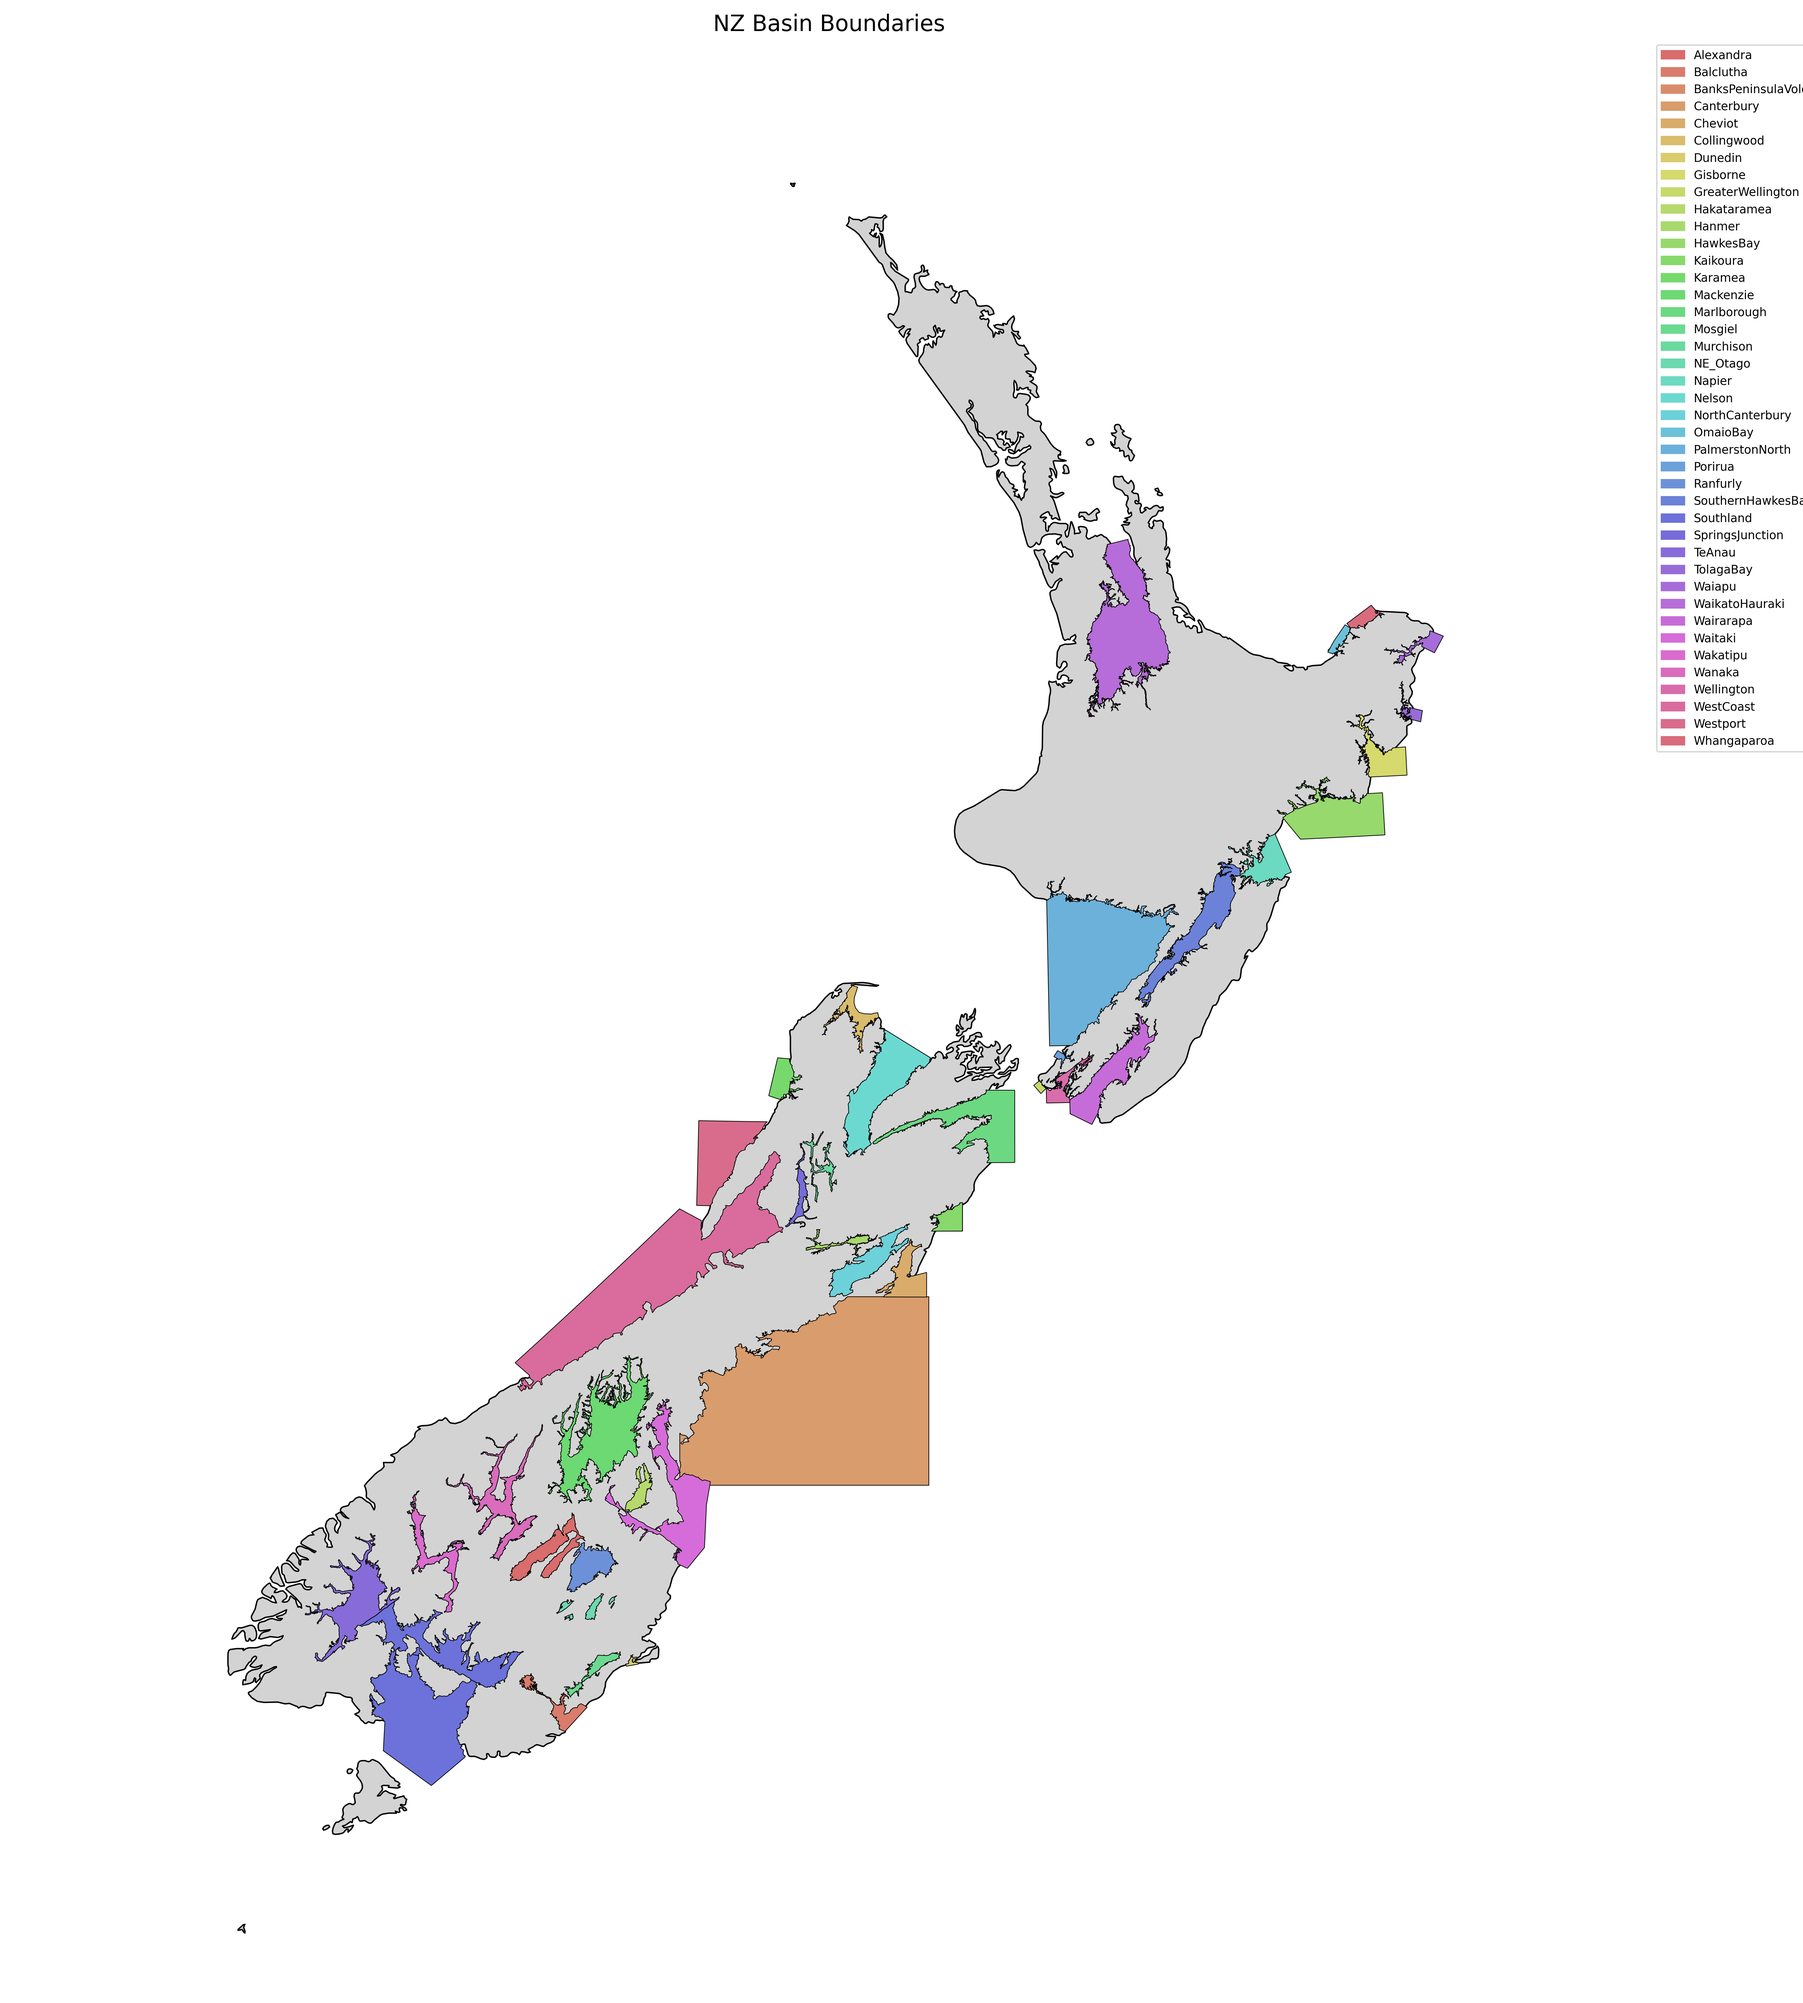
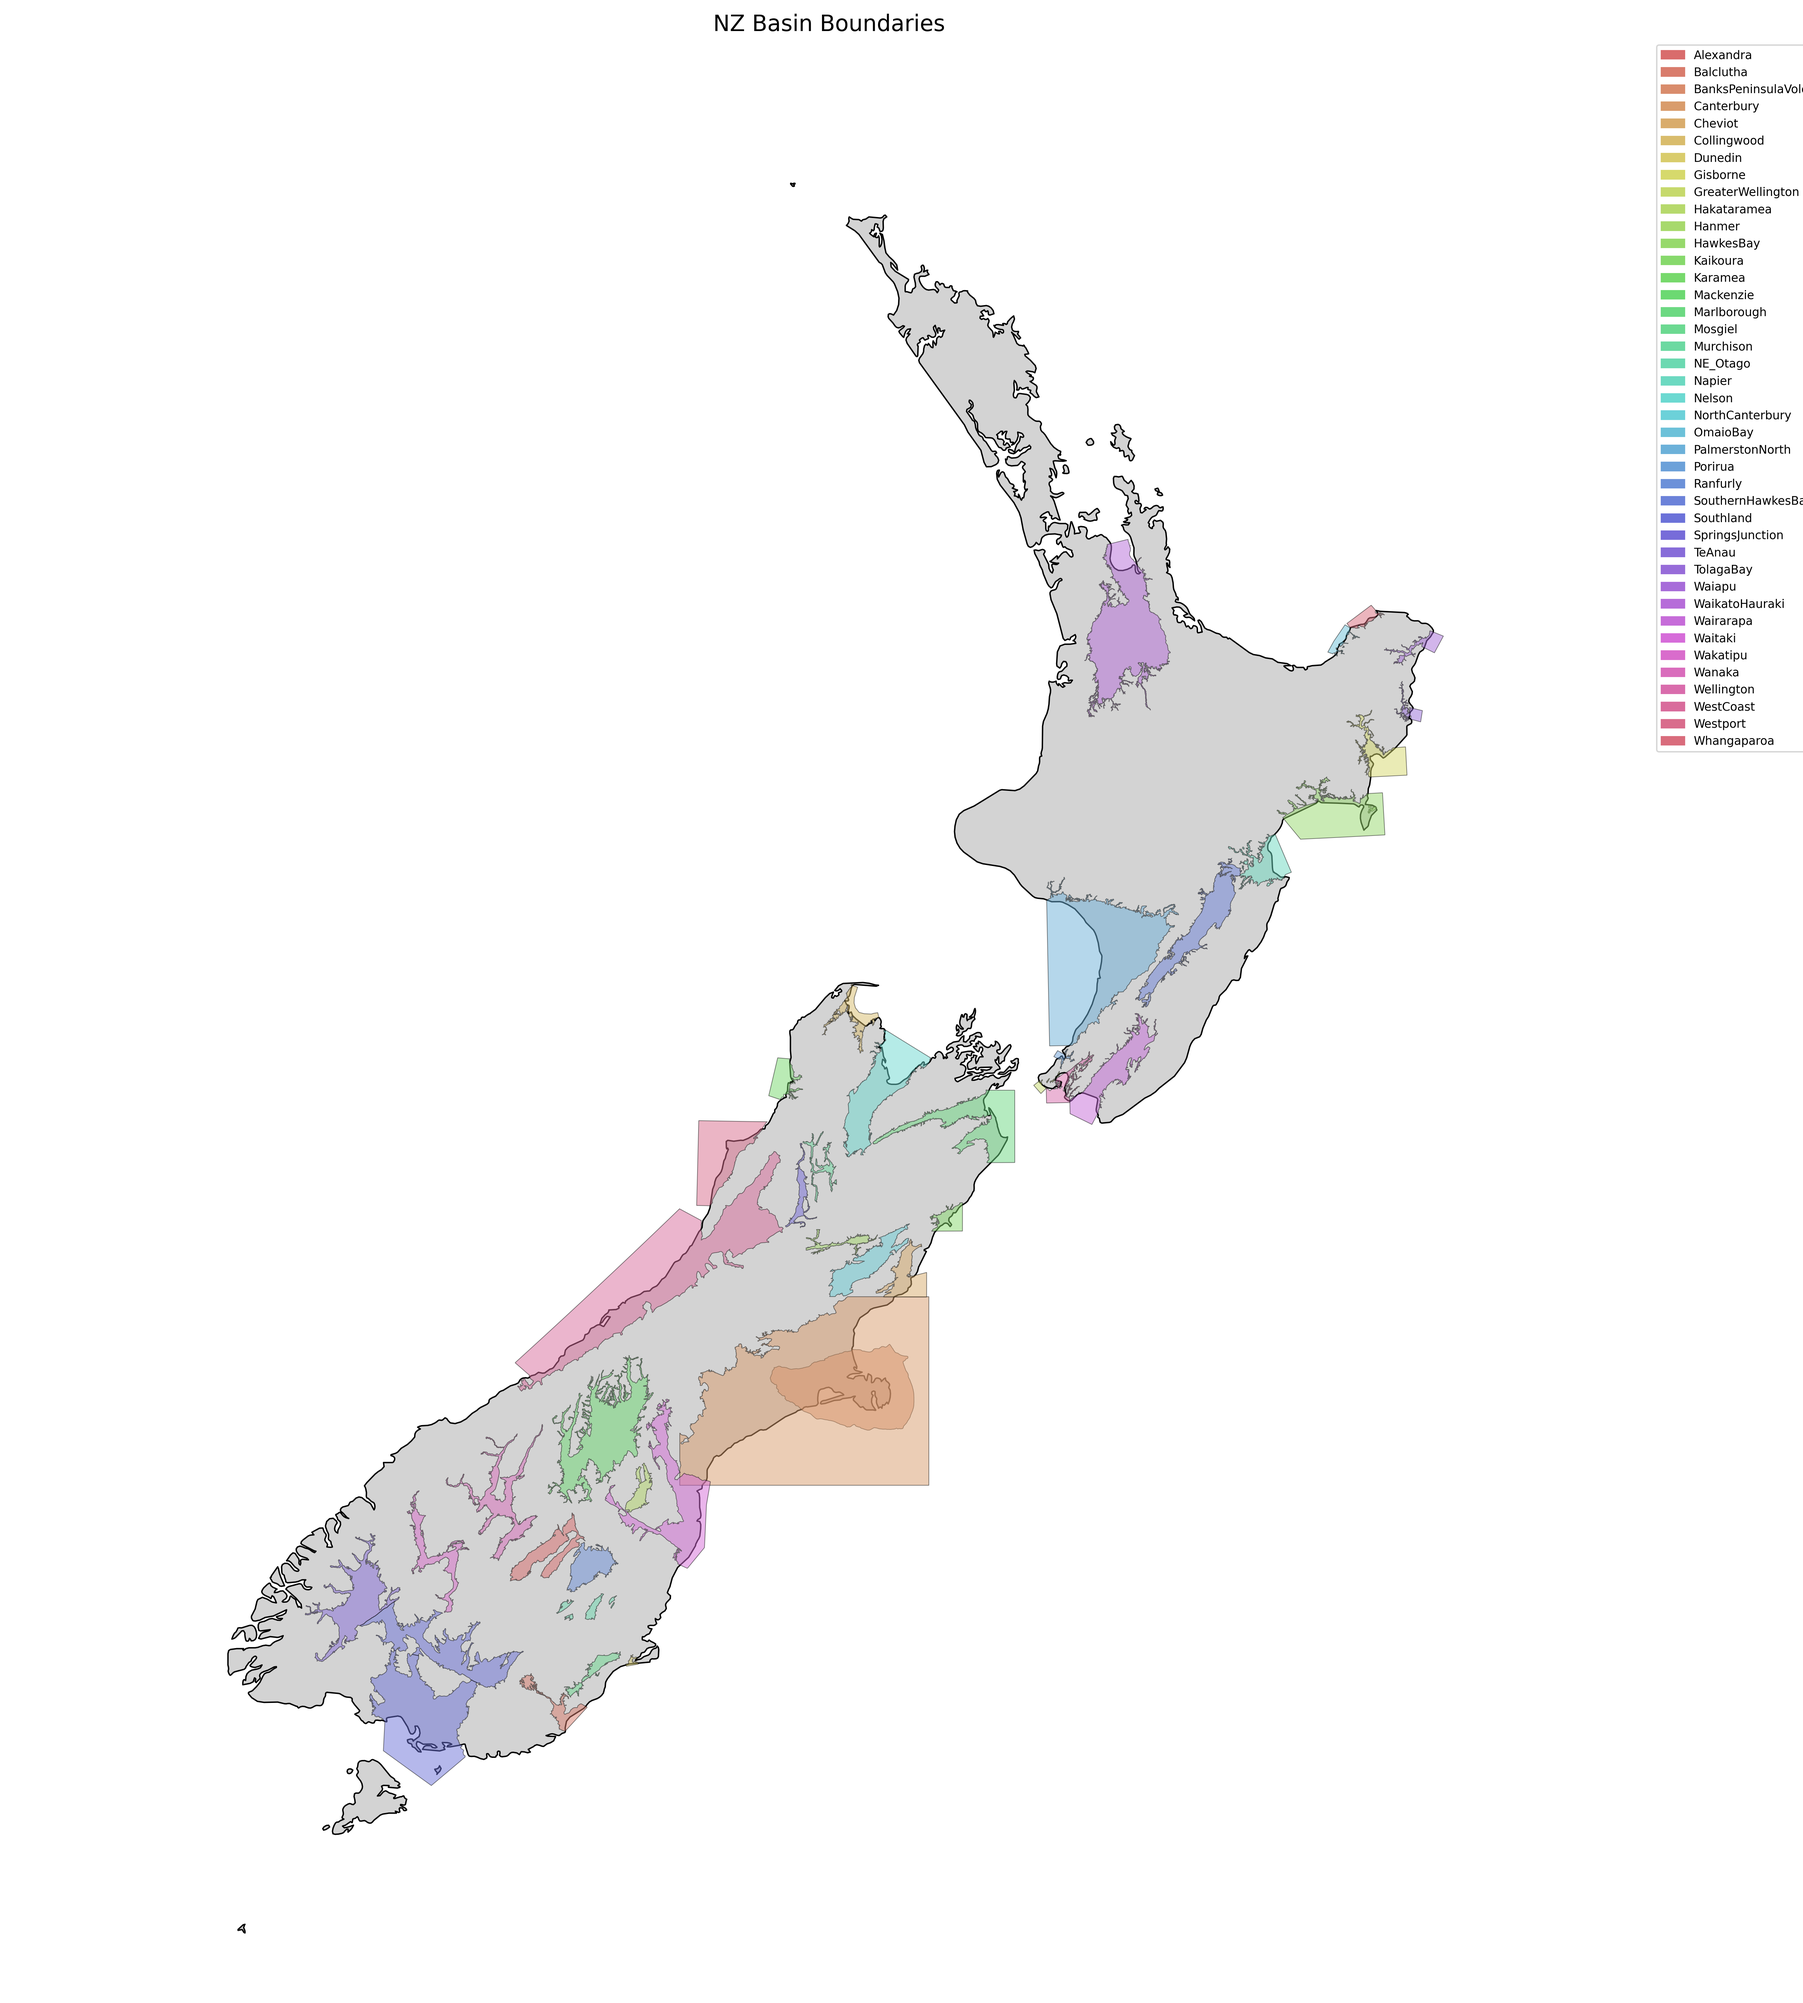
Added opacity to the map

Changed region(s): [[0.1867, 0.3428, 0.7778, 0.9038], [0.5911, 0.2805, 0.6533, 0.374], [0.7778, 0.3117, 0.8089, 0.3428]]

diff --git a/velocity_modelling/tools/map_all_basins.py b/velocity_modelling/tools/map_all_basins.py
@@ -207,7 +207,7 @@ def generate_basin_map(
                 if gdf.empty:
                     continue
                 gdf = gdf.to_crs("EPSG:4326")
-                gdf.plot(ax=ax, color=color, edgecolor="black", linewidth=0.5)
+                gdf.plot(ax=ax, color=color, edgecolor="black", linewidth=0.5,alpha=0.5)
                 any_valid = True
             except (fiona.errors.FionaError, ValueError) as e:
                 typer.echo(f"⚠ Error reading {geojson_path}: {e}", err=True)
